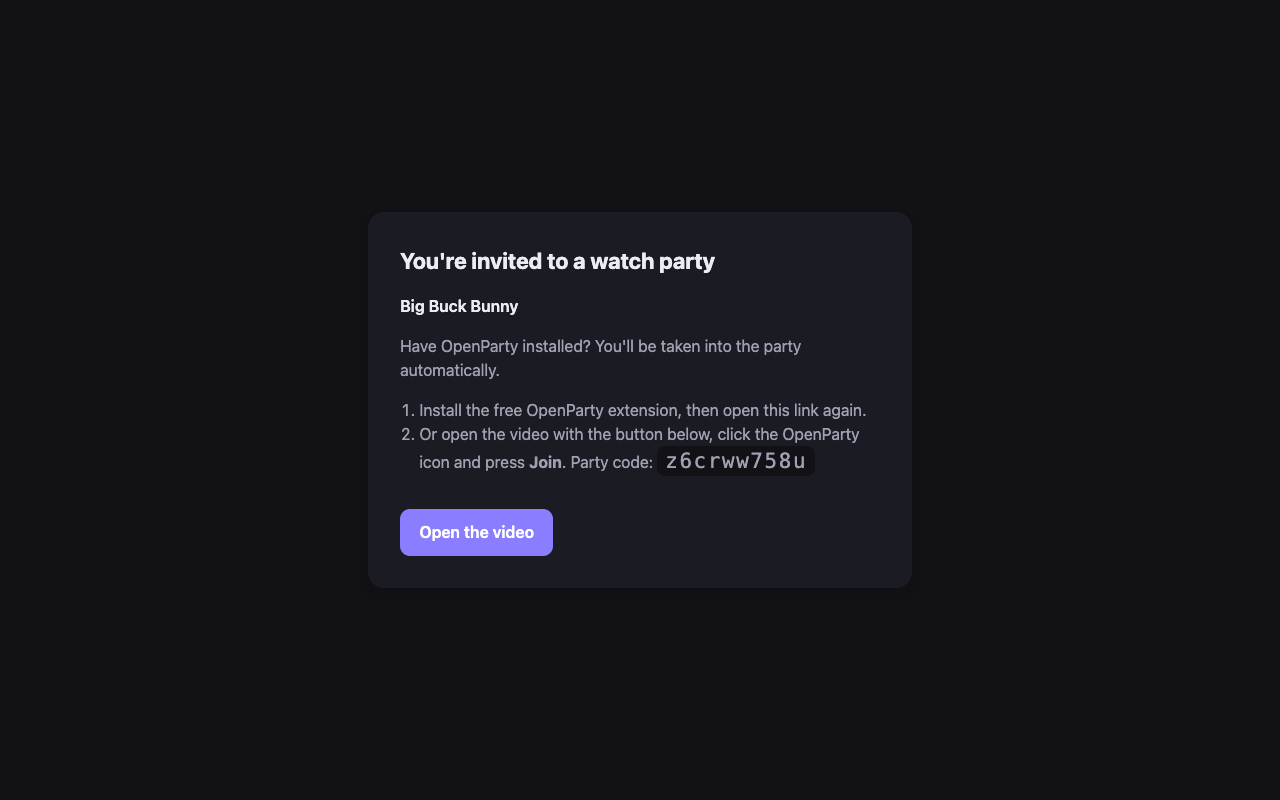
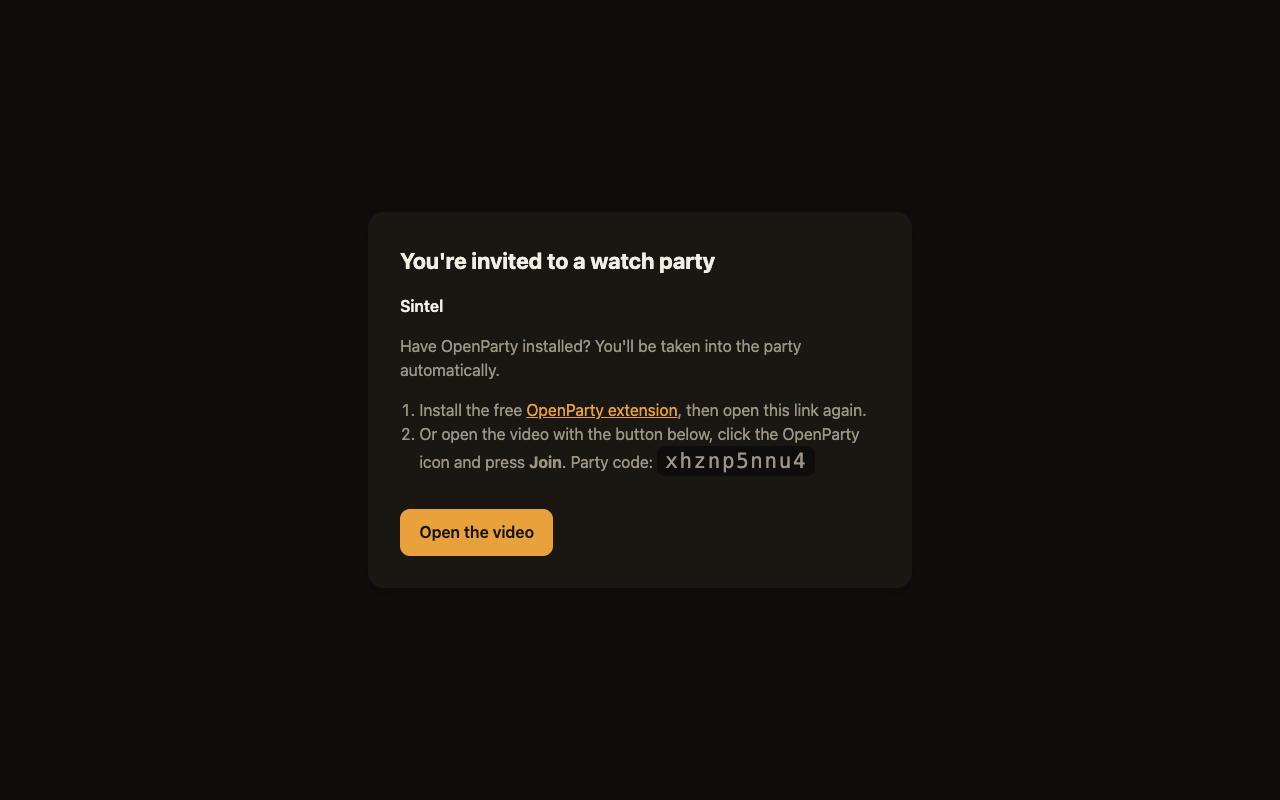
Store and Product Hunt images in the new brand, with Sintel; version 0.1.3

Changed region(s): [[0.3125, 0.5, 0.6875, 0.5938], [0.3125, 0.375, 0.625, 0.4688], [0.3125, 0.625, 0.4375, 0.7188]]

diff --git a/store/listing.md b/store/listing.md
@@ -1,6 +1,6 @@
 # Chrome Web Store listing
 
-Everything to paste into the [developer dashboard](https://chrome.google.com/webstore/devconsole), by tab. Images are in this folder; regenerate them with `tools/store-assets.mjs`. Build the upload with `npm run package` (writes `dist/openparty-<version>.zip`).
+Everything to paste into the [developer dashboard](https://chrome.google.com/webstore/devconsole), by tab. Images are in this folder; regenerate them with `tools/store-assets.mjs` (brand assets are in `brand/`). Build the upload with `npm run package` (writes `dist/openparty-<version>.zip`).
 
 ## Package
 
@@ -37,7 +37,7 @@ You can run your own sync server with Node, Docker or Cloudflare's free tier.
 
 Everyone in a party needs their own access to the video (their own subscription for paid services).
 
-Screenshots show Big Buck Bunny (© Blender Foundation, bigbuckbunny.org, CC BY 3.0).
+Screenshots show Sintel (© Blender Foundation, sintel.org, CC BY 3.0).
 ```
 
 The short summary comes from `description` in `manifest.json` (127 of 132 characters).
